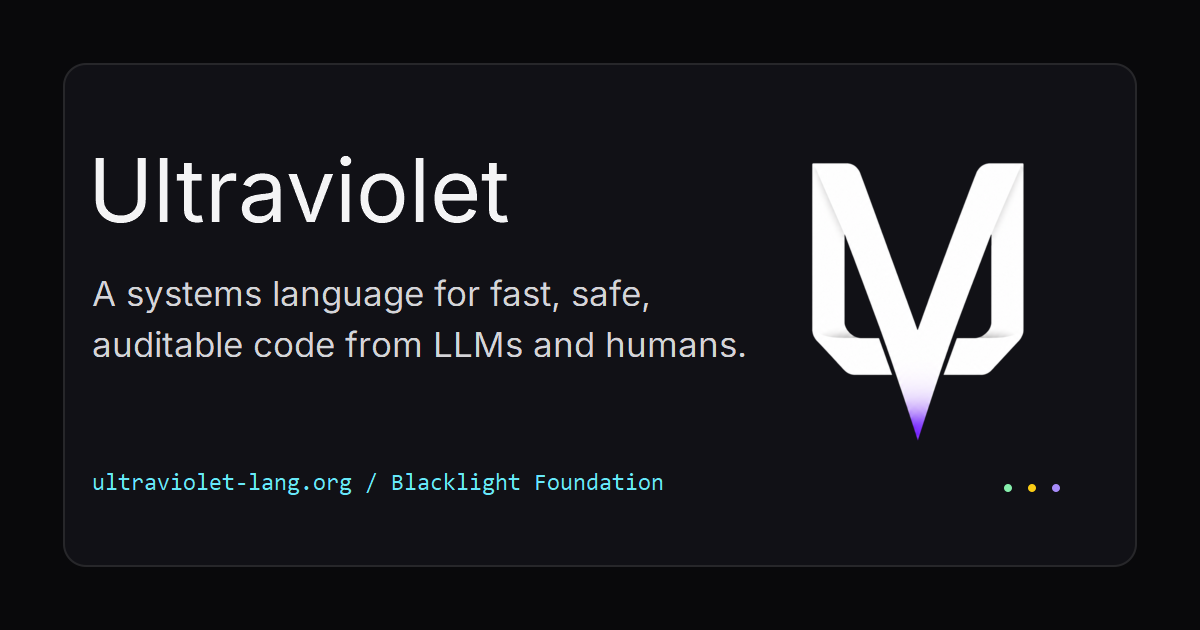
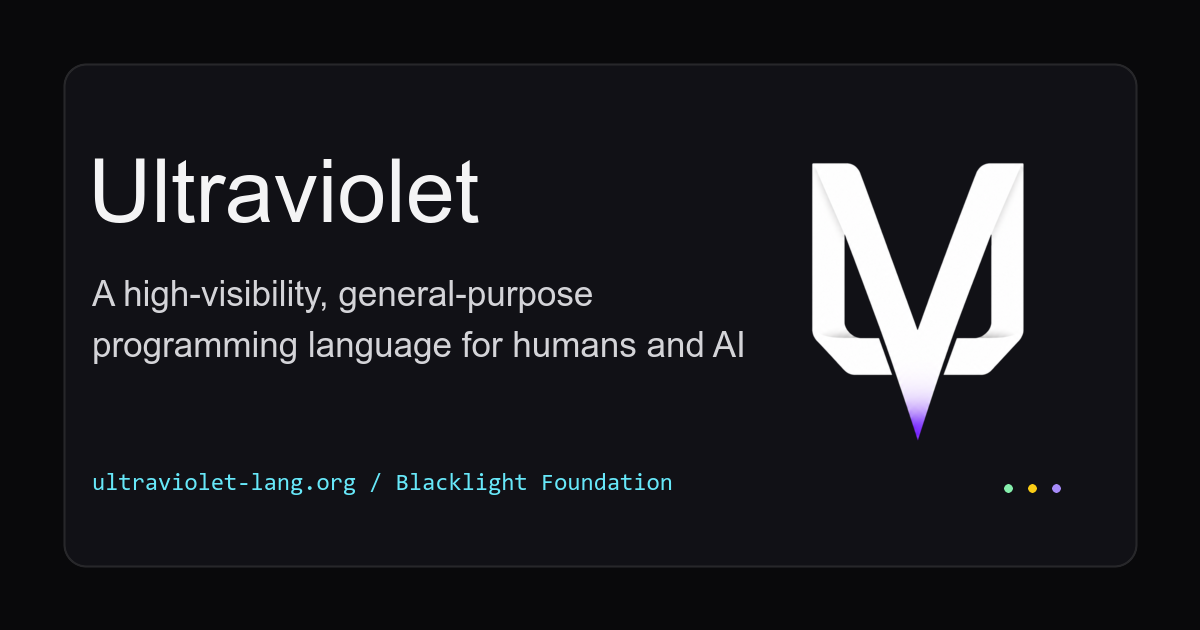
tagline update

Changed region(s): [[0.0617, 0.4524, 0.6167, 0.573], [0.0925, 0.2413, 0.4317, 0.3619], [0.0617, 0.754, 0.555, 0.7841]]

diff --git a/README.md b/README.md
@@ -2,7 +2,7 @@
 
 This repository contains the public website for Ultraviolet.
 
-Ultraviolet is a general-purpose programming language for AI-written code humans can review.
+Ultraviolet is a high-visibility, general-purpose programming language for humans and AI.
 
 ## Development
 

diff --git a/src/content/docs/docs/index.md b/src/content/docs/docs/index.md
@@ -3,7 +3,7 @@ title: Documentation
 description: Documentation overview for Ultraviolet.
 ---
 
-Ultraviolet is a systems language for fast, safe, auditable code from LLMs and humans.
+Ultraviolet is a high-visibility, general-purpose programming language for humans and AI.
 
 The language is designed to make generated code performant, safe, and auditable, and to make the important mistakes visible when generated code misses that bar. Source form is part of the design: contracts, modal states, permissions, keys, concurrency, and CPU/GPU execution choices are meant to stay local enough for review.
 

diff --git a/src/content/docs/docs/language-tour.md b/src/content/docs/docs/language-tour.md
@@ -3,7 +3,7 @@ title: Language Tour
 description: Tour of Ultraviolet's main language surfaces.
 ---
 
-Ultraviolet is a systems language for fast, safe, auditable code from LLMs and humans. The language makes contracts, states, permissions, keys, concurrency, and CPU/GPU execution choices visible in source.
+Ultraviolet is a high-visibility, general-purpose programming language for humans and AI. The language makes contracts, states, permissions, keys, concurrency, and CPU/GPU execution choices visible in source.
 
 <aside class="docs-status">
   <strong>Tour status: alpha.</strong>